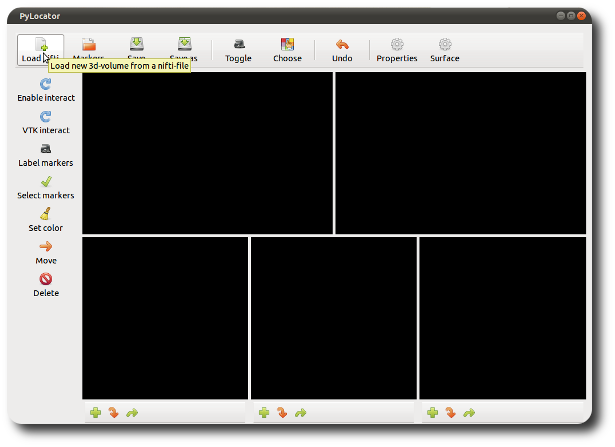
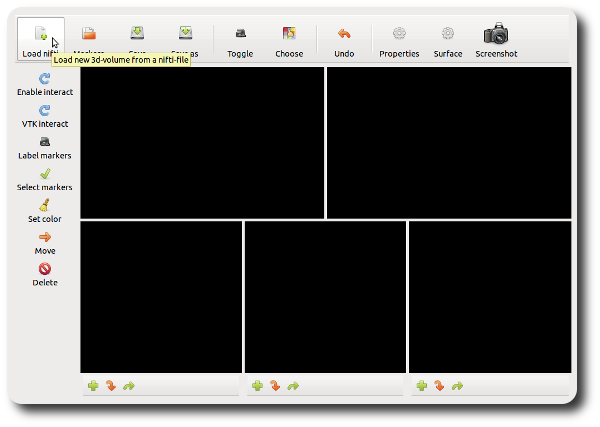
Updated documentation, reduced output to stdout

Changed region(s): [[0.0, 0.0, 0.96, 0.9742]]

diff --git a/doc/conf.py b/doc/conf.py
@@ -49,9 +49,9 @@ copyright = u'2011, Thorsten Kranz'
 # built documents.
 #
 # The short X.Y version.
-version = '0.1'
+version = '0.2'
 # The full version, including alpha/beta/rc tags.
-release = '0.1'
+release = '0.2'
 
 # The language for content autogenerated by Sphinx. Refer to documentation
 # for a list of supported languages.

diff --git a/pylocator/GtkGLExtVTKRenderWindowInteractor.py b/pylocator/GtkGLExtVTKRenderWindowInteractor.py
@@ -14,6 +14,8 @@ from gtk import gdk
 import gtk.gtkgl
 import vtk
 
+from shared import shared
+
 class GtkGLExtVTKRenderWindowInteractor(gtk.gtkgl.DrawingArea):
     """
     CLASS: GtkGLExtVTKRenderWindowInteractor

diff --git a/pylocator/GtkGLExtVTKRenderWindow.py b/pylocator/GtkGLExtVTKRenderWindow.py
@@ -15,6 +15,7 @@ import gtk.gtkgl
 from gtk import gdk
 import vtk
 
+from shared import shared
         
 class GtkGLExtVTKRenderWindowBase(gtk.gtkgl.DrawingArea):
     """

diff --git a/doc/tutorial.rst b/doc/tutorial.rst
@@ -183,7 +183,7 @@ for the planes widget (only setting window/level doesn't make sense here).
 We use this subwindow to render iso-surfaces for our volumetric data. [#f2]_  
 This is especially helpful for locating
 
-1. subdural electrodes, like strips and grips, in brain extracted MR images and
+1. subdural electrodes, like strips and grids, in brain extracted MR images and
 2. surface-electrodes in simultaneous EEG / fMRI experiments.
 
 To create a iso-surface, choose the button "Surface" from the main toolbar. 
@@ -193,7 +193,7 @@ a threshold value for the iso surface. For now, you can accept the default value
 .. figure:: _static/tutorial6.png
    :align: center
 
-Click on "Add segment" (we could render more than one is surface, but we won't do 
+Click on "Add segment" (we could render more than one iso surface, but we won't do 
 for now) and then "Render". After a short while, you'll see your iso surface inside 
 the surface widget. You can see the gyri and sulci and - if you search a little bit -
 you can find the locations of the subdural electrodes as additional "bumps".
@@ -207,6 +207,27 @@ Another little sphere appears, just at the point on the surface you were pointin
 
 Again, you can correct the marker locations within the slice widgets, label them in the 
 planes widget or one of the slice widgets, and finally save all markers to disc.
+
+Taking screenshots
+--------------------
+A feature recently added to PyLocator is its ability to take screenshots of the 3d-widgets.
+In contrast to using an external program for doing so, we can achieve a higher quality 
+using VTK.
+
+.. figure:: _static/tutorial8.png
+   :align: center
+
+Click on the button "Screenshot" in the main toolbar. A dialog appears (see above). 
+Here, you can pick a filename pattern (**it is important to keep the %03i within the pattern,
+as an automatically incremented counter is added here**). You can also have a pattern proposed
+by PyLocator, is will be based on the name of the MRI Nifti file.
+
+Next, choose your desired magnification. The currently rendered images in each widget will be 
+resampled accordingly by VTK, resulting in a higher resolution than a-posteriori resizing a 
+normal screenshot.
+
+You can use the buttons in the dialog to take photos of individual widgets or of all widgets.
+
 
 .. rubric:: Footnotes
 
